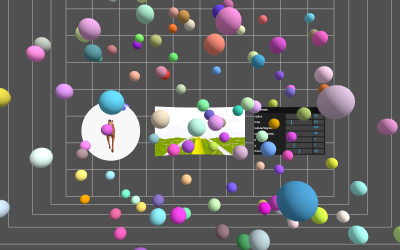
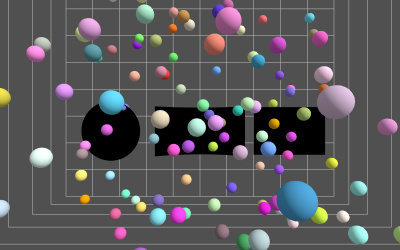
discard depth buffer where possible

Changed region(s): [[0.18, 0.42, 0.81, 0.644]]

diff --git a/src/renderers/webgl/WebGLTextures.js b/src/renderers/webgl/WebGLTextures.js
@@ -1784,106 +1784,126 @@ function WebGLTextures( _gl, extensions, state, properties, capabilities, utils,
 
 	function updateMultisampleRenderTarget( renderTarget ) {
 
-		if ( ( isWebGL2 && renderTarget.samples > 0 ) && useMultisampledRTT( renderTarget ) === false ) {
+		if ( ( isWebGL2 && renderTarget.samples > 0 ) ) {
 
-			const textures = renderTarget.isWebGLMultipleRenderTargets ? renderTarget.texture : [ renderTarget.texture ];
-			const width = renderTarget.width;
-			const height = renderTarget.height;
-			let mask = _gl.COLOR_BUFFER_BIT;
-			const invalidationArray = [];
 			const depthStyle = renderTarget.stencilBuffer ? _gl.DEPTH_STENCIL_ATTACHMENT : _gl.DEPTH_ATTACHMENT;
 			const renderTargetProperties = properties.get( renderTarget );
-			const isMultipleRenderTargets = ( renderTarget.isWebGLMultipleRenderTargets === true );
 
-			// If MRT we need to remove FBO attachments
-			if ( isMultipleRenderTargets ) {
-
-				for ( let i = 0; i < textures.length; i ++ ) {
-
-					state.bindFramebuffer( _gl.FRAMEBUFFER, renderTargetProperties.__webglMultisampledFramebuffer );
-					_gl.framebufferRenderbuffer( _gl.FRAMEBUFFER, _gl.COLOR_ATTACHMENT0 + i, _gl.RENDERBUFFER, null );
-
-					state.bindFramebuffer( _gl.FRAMEBUFFER, renderTargetProperties.__webglFramebuffer );
-					_gl.framebufferTexture2D( _gl.DRAW_FRAMEBUFFER, _gl.COLOR_ATTACHMENT0 + i, _gl.TEXTURE_2D, null, 0 );
-
-				}
-
-			}
-
-			state.bindFramebuffer( _gl.READ_FRAMEBUFFER, renderTargetProperties.__webglMultisampledFramebuffer );
-			state.bindFramebuffer( _gl.DRAW_FRAMEBUFFER, renderTargetProperties.__webglFramebuffer );
-
-			for ( let i = 0; i < textures.length; i ++ ) {
-
-				invalidationArray.push( _gl.COLOR_ATTACHMENT0 + i );
-
-				if ( renderTarget.depthBuffer ) {
-
-					invalidationArray.push( depthStyle );
-
-				}
+			if ( useMultisampledRTT( renderTarget ) ) {
 
 				const ignoreDepthValues = ( renderTargetProperties.__ignoreDepthValues !== undefined ) ? renderTargetProperties.__ignoreDepthValues : false;
 
-				if ( ignoreDepthValues === false ) {
+				if ( ignoreDepthValues ) {
 
-					if ( renderTarget.depthBuffer ) mask |= _gl.DEPTH_BUFFER_BIT;
-					if ( renderTarget.stencilBuffer ) mask |= _gl.STENCIL_BUFFER_BIT;
+					const depthStyle = renderTarget.stencilBuffer ? _gl.DEPTH_STENCIL_ATTACHMENT : _gl.DEPTH_ATTACHMENT;
 
-				}
-
-				if ( isMultipleRenderTargets ) {
-
-					_gl.framebufferRenderbuffer( _gl.READ_FRAMEBUFFER, _gl.COLOR_ATTACHMENT0, _gl.RENDERBUFFER, renderTargetProperties.__webglColorRenderbuffer[ i ] );
-
-				}
-
-				if ( ignoreDepthValues === true ) {
-
-					_gl.invalidateFramebuffer( _gl.READ_FRAMEBUFFER, [ depthStyle ] );
+					state.bindFramebuffer( _gl.DRAW_FRAMEBUFFER, renderTargetProperties.__webglFramebuffer );
 					_gl.invalidateFramebuffer( _gl.DRAW_FRAMEBUFFER, [ depthStyle ] );
+					state.bindFramebuffer( _gl.DRAW_FRAMEBUFFER, null );
 
 				}
 
+			} else {
+
+				const textures = renderTarget.isWebGLMultipleRenderTargets ? renderTarget.texture : [ renderTarget.texture ];
+				const width = renderTarget.width;
+				const height = renderTarget.height;
+				let mask = _gl.COLOR_BUFFER_BIT;
+				const invalidationArray = [];
+				const isMultipleRenderTargets = ( renderTarget.isWebGLMultipleRenderTargets === true );
+
+				// If MRT we need to remove FBO attachments
 				if ( isMultipleRenderTargets ) {
 
-					const webglTexture = properties.get( textures[ i ] ).__webglTexture;
-					_gl.framebufferTexture2D( _gl.DRAW_FRAMEBUFFER, _gl.COLOR_ATTACHMENT0, _gl.TEXTURE_2D, webglTexture, 0 );
+					for ( let i = 0; i < textures.length; i ++ ) {
+
+						state.bindFramebuffer( _gl.FRAMEBUFFER, renderTargetProperties.__webglMultisampledFramebuffer );
+						_gl.framebufferRenderbuffer( _gl.FRAMEBUFFER, _gl.COLOR_ATTACHMENT0 + i, _gl.RENDERBUFFER, null );
+
+						state.bindFramebuffer( _gl.FRAMEBUFFER, renderTargetProperties.__webglFramebuffer );
+						_gl.framebufferTexture2D( _gl.DRAW_FRAMEBUFFER, _gl.COLOR_ATTACHMENT0 + i, _gl.TEXTURE_2D, null, 0 );
+
+					}
 
 				}
 
-				_gl.blitFramebuffer( 0, 0, width, height, 0, 0, width, height, mask, _gl.NEAREST );
-
-				if ( supportsInvalidateFramebuffer ) {
-
-					_gl.invalidateFramebuffer( _gl.READ_FRAMEBUFFER, invalidationArray );
-
-				}
-
-
-			}
-
-			state.bindFramebuffer( _gl.READ_FRAMEBUFFER, null );
-			state.bindFramebuffer( _gl.DRAW_FRAMEBUFFER, null );
-
-			// If MRT since pre-blit we removed the FBO we need to reconstruct the attachments
-			if ( isMultipleRenderTargets ) {
+				state.bindFramebuffer( _gl.READ_FRAMEBUFFER, renderTargetProperties.__webglMultisampledFramebuffer );
+				state.bindFramebuffer( _gl.DRAW_FRAMEBUFFER, renderTargetProperties.__webglFramebuffer );
 
 				for ( let i = 0; i < textures.length; i ++ ) {
 
-					state.bindFramebuffer( _gl.FRAMEBUFFER, renderTargetProperties.__webglMultisampledFramebuffer );
-					_gl.framebufferRenderbuffer( _gl.FRAMEBUFFER, _gl.COLOR_ATTACHMENT0 + i, _gl.RENDERBUFFER, renderTargetProperties.__webglColorRenderbuffer[ i ] );
+					invalidationArray.push( _gl.COLOR_ATTACHMENT0 + i );
 
-					const webglTexture = properties.get( textures[ i ] ).__webglTexture;
+					if ( renderTarget.depthBuffer ) {
 
-					state.bindFramebuffer( _gl.FRAMEBUFFER, renderTargetProperties.__webglFramebuffer );
-					_gl.framebufferTexture2D( _gl.DRAW_FRAMEBUFFER, _gl.COLOR_ATTACHMENT0 + i, _gl.TEXTURE_2D, webglTexture, 0 );
+						invalidationArray.push( depthStyle );
+
+					}
+
+					const ignoreDepthValues = ( renderTargetProperties.__ignoreDepthValues !== undefined ) ? renderTargetProperties.__ignoreDepthValues : false;
+
+					if ( ignoreDepthValues === false ) {
+
+						if ( renderTarget.depthBuffer ) mask |= _gl.DEPTH_BUFFER_BIT;
+						if ( renderTarget.stencilBuffer ) mask |= _gl.STENCIL_BUFFER_BIT;
+
+					}
+
+					if ( isMultipleRenderTargets ) {
+
+						_gl.framebufferRenderbuffer( _gl.READ_FRAMEBUFFER, _gl.COLOR_ATTACHMENT0, _gl.RENDERBUFFER, renderTargetProperties.__webglColorRenderbuffer[ i ] );
+
+					}
+
+					if ( ignoreDepthValues === true ) {
+
+						_gl.invalidateFramebuffer( _gl.READ_FRAMEBUFFER, [ depthStyle ] );
+						_gl.invalidateFramebuffer( _gl.DRAW_FRAMEBUFFER, [ depthStyle ] );
+
+					}
+
+					if ( isMultipleRenderTargets ) {
+
+						const webglTexture = properties.get( textures[ i ] ).__webglTexture;
+						_gl.framebufferTexture2D( _gl.DRAW_FRAMEBUFFER, _gl.COLOR_ATTACHMENT0, _gl.TEXTURE_2D, webglTexture, 0 );
+
+					}
+
+					_gl.blitFramebuffer( 0, 0, width, height, 0, 0, width, height, mask, _gl.NEAREST );
+
+					if ( supportsInvalidateFramebuffer ) {
+
+						_gl.invalidateFramebuffer( _gl.READ_FRAMEBUFFER, invalidationArray );
+
+					}
+
 
 				}
 
+				state.bindFramebuffer( _gl.READ_FRAMEBUFFER, null );
+				state.bindFramebuffer( _gl.DRAW_FRAMEBUFFER, null );
+
+				// If MRT since pre-blit we removed the FBO we need to reconstruct the attachments
+				if ( isMultipleRenderTargets ) {
+
+					for ( let i = 0; i < textures.length; i ++ ) {
+
+						state.bindFramebuffer( _gl.FRAMEBUFFER, renderTargetProperties.__webglMultisampledFramebuffer );
+						_gl.framebufferRenderbuffer( _gl.FRAMEBUFFER, _gl.COLOR_ATTACHMENT0 + i, _gl.RENDERBUFFER, renderTargetProperties.__webglColorRenderbuffer[ i ] );
+
+						const webglTexture = properties.get( textures[ i ] ).__webglTexture;
+
+						state.bindFramebuffer( _gl.FRAMEBUFFER, renderTargetProperties.__webglFramebuffer );
+						_gl.framebufferTexture2D( _gl.DRAW_FRAMEBUFFER, _gl.COLOR_ATTACHMENT0 + i, _gl.TEXTURE_2D, webglTexture, 0 );
+
+					}
+
+				}
+
+				state.bindFramebuffer( _gl.DRAW_FRAMEBUFFER, renderTargetProperties.__webglMultisampledFramebuffer );
+
 			}
 
-			state.bindFramebuffer( _gl.DRAW_FRAMEBUFFER, renderTargetProperties.__webglMultisampledFramebuffer );
 
 		}
 

diff --git a/src/renderers/webxr/WebXRManager.js b/src/renderers/webxr/WebXRManager.js
@@ -727,6 +727,7 @@ class WebXRManager extends EventDispatcher {
 					samples: attributes.antialias ? 4 : 1
 				} );
 
+			renderer.properties.get( renderTarget ).__ignoreDepthValues = true;
 			const material = new MeshBasicMaterial( { color: 0xffffff, side: FrontSide } );
 			material.map = renderTarget.texture;
 			const plane = new Mesh( geometry, material );
@@ -800,6 +801,7 @@ class WebXRManager extends EventDispatcher {
 					samples: attributes.antialias ? 4 : 1
 				} );
 
+			renderer.properties.get( renderTarget ).__ignoreDepthValues = true;
 			const material = new MeshBasicMaterial( { color: 0xffffff, side: BackSide } );
 			material.map = renderTarget.texture;
 			const plane = new Mesh( geometry, material );
